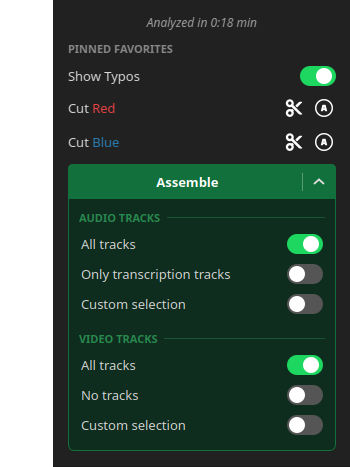
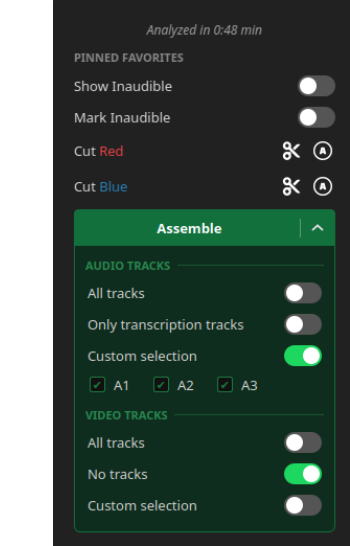
docs: restructure chapter 5 by settings tabs with basic vs advanced view breakdowns

diff --git a/docs/USER_GUIDE.md b/docs/USER_GUIDE.md
@@ -38,13 +38,13 @@
 &nbsp;&nbsp;&nbsp;&nbsp;[4.2 Integrated Audio Player Controls](#42-integrated-audio-player-controls)<br>
 
 **[5. Settings & Preferences](#5-settings-preferences)**<br>
-&nbsp;&nbsp;&nbsp;&nbsp;[5.1 General Settings](#51-general-settings)<br>
-&nbsp;&nbsp;&nbsp;&nbsp;[5.2 Interface & Transcript Formatting](#52-interface-transcript-formatting)<br>
-&nbsp;&nbsp;&nbsp;&nbsp;[5.3 Audio Sync Calibration (Offset, Padding, Snap Max)](#53-audio-sync-calibration-offset-padding-snap-max)<br>
-&nbsp;&nbsp;&nbsp;&nbsp;[5.4 Keyboard & Mouse Shortcut Bindings](#54-keyboard-mouse-shortcut-bindings)<br>
-&nbsp;&nbsp;&nbsp;&nbsp;[5.5 Custom Markers Configuration](#55-custom-markers-configuration)<br>
-&nbsp;&nbsp;&nbsp;&nbsp;[5.6 AI Engine Configuration (Advanced Mode)](#56-ai-engine-configuration-advanced-mode)<br>
-&nbsp;&nbsp;&nbsp;&nbsp;[5.7 Telemetry, Contact & Issue Reporting](#57-telemetry-contact-issue-reporting)<br>
+&nbsp;&nbsp;&nbsp;&nbsp;[5.1 General Tab](#51-general-tab)<br>
+&nbsp;&nbsp;&nbsp;&nbsp;[5.2 Transcript & Interface Tab](#52-transcript-interface-tab)<br>
+&nbsp;&nbsp;&nbsp;&nbsp;[5.3 Shortcuts Tab](#53-shortcuts-tab)<br>
+&nbsp;&nbsp;&nbsp;&nbsp;[5.4 Custom Markers Tab](#54-custom-markers-tab)<br>
+&nbsp;&nbsp;&nbsp;&nbsp;[5.5 AI Engine Tab (Advanced View Only)](#55-ai-engine-tab-advanced-view-only)<br>
+&nbsp;&nbsp;&nbsp;&nbsp;[5.6 Telemetry & Privacy Tab](#56-telemetry-privacy-tab)<br>
+&nbsp;&nbsp;&nbsp;&nbsp;[5.7 Support & Bug Reporting Tab](#57-support-bug-reporting-tab)<br>
 
 **[6. Step-by-Step Practical Recipes ("How do I...?")](#6-step-by-step-practical-recipes-how-do-i)**<br>
 &nbsp;&nbsp;&nbsp;&nbsp;[Recipe A: Cutting Video Based on a Written Script](#recipe-a-cutting-video-based-on-a-written-script)<br>
@@ -393,9 +393,9 @@ The **Main Panel** serves as the primary control center for manual word painting
 <img align="right" src="images/07a_sidebar_tools.png" alt="Sidebar Main Upper" width="285">
 
 #### Upper Section: Marking Palette & Custom Colors
-- **Active Marker Selector:** Radio buttons to switch between **Red**, **Blue**, **Green**, **Eraser**, and custom markers. Shortcut keys `1`, `2`, `3`, `4` select these tools instantly.
-- **Clear Transcript (Brush Icon):** Erases all color markings across the entire project with a confirmation dialog.
-- **`+ add custom marker...`:** Opens the Settings dialog directly to create, configure, and assign shortcuts to custom color markers (see [Section 5.5: Custom Markers Configuration](#55-custom-markers-configuration)).
+- **Active Marker Selector:** Radio buttons to switch between **Red**, **Blue**, **Green**, **Eraser**, and custom markers. You can also use the `1`, `2`, `3`, `4` shortcut keys to select these tools.
+- **Clear Transcript (Brush Icon):** Erases all color markings across the entire transcript with a confirmation dialog.
+- **`+ add custom marker...`:** Opens the Settings dialog directly to create, configure, and assign shortcuts to custom color markers (see [Section 5.4: Custom Markers Tab](#54-custom-markers-tab)).
 
 <br clear="all">
 
@@ -404,15 +404,15 @@ The **Main Panel** serves as the primary control center for manual word painting
 #### Lower Section: Favorites & Timeline Export
 - **Analysis Duration Indicator:** Displays exact stats on transcription processing time (e.g. *Analyzed in: 0.18min*).
 - **Pinned Favorites:** Dynamically reveals any tools or toggles you have starred with the Star `★` button on the *Assembly* Sidebar Panel (such as one-click auto-cut toggles), letting you control them without leaving the Main tab.
-- **`Assemble` Button & Track Options Menu:** Clicking the main **`Assemble`** button triggers the final cut process in DaVinci Resolve. Clicking the arrow (`^`) opens the expandable track configuration menu:
+- **`Assemble` Button:** Clicking it triggers the final cut process in DaVinci Resolve. Clicking the arrow button opens the expandable track configuration menu:
   - **Audio Tracks:**
-    - **`All tracks`:** Includes every audio track from your source timeline in the ripple cut.
-    - **`Only transcription tracks`:** Cuts and includes only the dialogue audio track(s) selected during transcription.
-    - **`Custom selection`:** Lets you manually check or uncheck individual audio tracks (`A1`, `A2`, etc.) to cut.
+    - **`All tracks`:** Includes every audio track from your source timeline (default).
+    - **`Only transcription tracks`:** Includes only the dialogue audio track(s) selected for transcription in the first step.
+    - **`Custom selection`:** Lets you manually choose which audio tracks to use.
   - **Video Tracks:**
-    - **`All tracks`:** Includes every video track (`V1`, `V2`, etc.) from your source timeline in the ripple cut.
-    - **`No tracks`:** Does not modify or cut any video tracks (audio-only ripple cut).
-    - **`Custom selection`:** Lets you manually check or uncheck individual video tracks (`V1`, `V2`, etc.).
+    - **`All tracks`:** Includes every video track from your source timeline (default).
+    - **`No tracks`:** Does not use any video tracks (audio-only assembly).
+    - **`Custom selection`:** Lets you manually choose which video tracks to use.
 
 <br clear="all">
 
@@ -556,27 +556,21 @@ The bottom panel of the editor houses the **Audio Preview Bar**, eliminating gue
 ---
 
 <br>
-<br>
-
----
-
-<br>
-
 ## 5. Settings & Preferences
 
-Clicking the Gear Icon Settings opens the **Settings Dialog**. You can switch between **Basic View** and **Advanced View** at the top.
+Clicking the Gear icon (`⚙`) in the top titlebar or pressing **`Escape`** opens the **Settings Dialog**. 
+
+At the very top of the dialog, you can toggle between two modes:
+- **Basic View (Default):** A clean, streamlined view containing only the essential everyday preferences (language, typography, shortcuts, marker management, and automatic updates).
+- **Advanced View:** Unlocks granular developer and power-user parameters across tabs (including the dedicated **AI Engine** tab, floating window mode, and deep Whisper inference thresholds).
 
 <p align="center">
-  <img src="images/11_settings_dialog.png" alt="Settings Dialog Overview" width="90%">
+  <img src="images/11_settings_dialog.png" alt="Settings Dialog Overview (Basic vs Advanced View)" width="90%">
 </p>
 
 <!-- 
 IMAGE PLACEHOLDER: docs/images/11_settings_dialog.png
-Capture Settings dialog showing:
-[1] Basic / Advanced View Switcher
-[2] Left Category Navigation List
-[3] Setting Row with Input & Reset (Refresh) Button
-[4] Footer Bar: Reset All Settings, Close, Apply
+Overview of Settings dialog comparing Basic View vs Advanced View switcher.
 -->
 
 <br>
@@ -585,13 +579,23 @@ Capture Settings dialog showing:
 
 <br>
 
-### 5.1 General Settings
-- **Interface Language (`Language`):** Switches UI language (English, Polish, German, French, Spanish, Russian, Italian, Japanese, Chinese, etc.).
-- **Accent Color:** Selects the theme accent color (Green, Blue, Purple, Orange, Red, Teal, Pink, Amber).
-- **App Icon:** Chooses the application window icon style.
-- **Always on top:** Keeps BadWords floating above DaVinci Resolve.
-- **Notify me about new versions:** Checks GitHub/GitLab releases on startup.
-- **Auto-update on startup:** Silently downloads and installs patches automatically before opening.
+### 5.1 General Tab
+
+<p align="center">
+  <img src="images/11a_settings_general.png" alt="Settings General Tab" width="90%">
+</p>
+
+#### Basic View:
+- **Updates & Version Card:**
+  - Displays your currently installed version and checks for updates automatically.
+  - **`Update Now` Button:** Appears whenever a new patch or version is released on GitHub/GitLab, allowing you to update in one click without leaving the app.
+  - **`Check for updates on startup` Toggle:** Automatically checks remote repositories for new releases on launch.
+  - **`Auto-update on startup` Toggle:** Automatically downloads and applies updates silently in the background before launching.
+- **Language (`Language`):** Switches the entire BadWords user interface between supported languages (English, Polish, German, French, Spanish, Italian, Japanese, Chinese, etc.).
+- **App Icon Style:** Choose between 4 distinct window icon designs (**Default**, **Monochrome**, **White B**, **White**) to match your system theme.
+- **Settings Backup:**
+  - **`Import Settings`:** Restores your preferences from a saved `.json` file.
+  - **`Export Settings`:** Exports your entire configuration to migrate between computers.
 
 <br>
 
@@ -599,13 +603,32 @@ Capture Settings dialog showing:
 
 <br>
 
-### 5.2 Interface & Transcript Formatting
-- **Transcript Layout Mode:** Choose between **Segmented Blocks** (breaks text into clean sentence chunks with `[00:14]` timestamp headers) and **Continuous Flow** (unbroken paragraph prose).
-- **Transcript Font & Font Size:** Changes typography and font scaling (pt).
-- **Line Spacing (px):** Adjusts vertical padding between lines.
-- **Precise Timestamps (ms):** Displays full millisecond timestamps (e.g. `[01:08.432]`) instead of rounded seconds (`[01:08]`).
-- **Punctuation marks per block (`chunk_punct_count`):** Number of sentences grouped into a single transcript block.
-- **Max chunk words / Lookahead words:** Controls maximum line length and punctuation-aware word wrapping.
+### 5.2 Transcript & Interface Tab
+
+<p align="center">
+  <img src="images/11b_settings_transcript.png" alt="Settings Transcript Tab" width="90%">
+</p>
+
+#### Basic View:
+- **Display Mode:**
+  - **`Segmented Blocks`:** Groups sentences into structured dialogue blocks with timestamp headers `[00:14]` for easy skimming.
+  - **`Continuous Flow`:** Displays transcription as continuous running prose.
+- **Transcript Typography:**
+  - **Font Family:** Select any font installed on your operating system.
+  - **Font Size (pt):** Adjust text scale (8pt to 48pt).
+  - **Line Spacing (px):** Adjust vertical padding between lines of text.
+  - **Live Preview Box:** Instantly previews typography, colors, and line height adjustments before applying.
+- **DaVinci Resolve Synchronization:**
+  - **`Sync playhead with DaVinci Resolve chapters` Toggle:** Keeps playhead position synchronized between Resolve and BadWords.
+  - **`Preserve XML track order` Toggle:** Guarantees strict timeline track order preservation during XML import/export.
+  - **`Precise Timestamps` Toggle:** Switches timestamps from rounded seconds (`[01:08]`) to full millisecond precision (`[01:08.432]`).
+
+#### Advanced View Additions:
+- **`Always on Top` Toggle:** Forces BadWords to float permanently above DaVinci Resolve and other windows.
+- **Chunk Segmentation Parameters (for Segmented Mode):**
+  - **Max Chunk Words (default `30`):** Maximum number of words in a sentence block before forcing a break.
+  - **Chunk Lookahead (default `3`):** Number of words the engine looks ahead to find natural punctuation points (`.`, `?`, `!`) before breaking a line.
+  - **Min Chunk Characters (default `7`):** Minimum character count threshold before a new chunk is permitted.
 
 <br>
 
@@ -613,31 +636,22 @@ Capture Settings dialog showing:
 
 <br>
 
-### 5.3 Audio Sync Calibration (Offset, Padding, Snap Max)
+### 5.3 Shortcuts Tab
 
-Fine-tune these parameters if you need razor-sharp acoustic synchronization:
+<p align="center">
+  <img src="images/11c_settings_shortcuts.png" alt="Settings Shortcuts Tab" width="90%">
+</p>
 
-| Parameter | Default Value | Description |
-| :--- | :---: | :--- |
-| **Offset (s)** | `0.133s` | Shifts all transcript timestamps backward or forward. Negative values start cuts slightly earlier; positive values delay them. |
-| **Padding (s)** | `0.000s` | Adds extra duration to the tail of each spoken word, ensuring trailing consonants are never clipped. |
-| **Snap Max (s)** | `0.250s` | Maximum silence gap between two adjacent words to merge them into a single uninterrupted audio clip. |
-
-<br>
-
----
-
-<br>
-
-### 5.4 Keyboard & Mouse Shortcut Bindings
-Configure custom keys for every action:
-- Switch to Red / Blue / Green Marker
-- Switch to Eraser
-- Jump to Word (`Ctrl` / `Alt` / `Shift` + Left / Right Mouse Button)
-- Play / Pause (`Space`)
-- Skip Backward / Forward (`Left` / `Right`)
-- Search (`Ctrl + F`)
-- Open Settings (`Escape`)
+#### Basic & Advanced View:
+- **Conflict Detection:** Key capture buttons automatically detect duplicate hotkeys across tools, turning the border **Red** if two actions share the same shortcut.
+- **Color Marker Keys:** Assign custom keybindings to **Red (`1`)**, **Blue (`2`)**, **Green (`3`)**, **Eraser (`4`)**, and any custom markers you create.
+- **Navigation & Editing Controls:**
+  - **Jump to Word:** Configure mouse click combination (`Ctrl + Left Click`, `Alt + Left Click`, `Shift + Left Click`, or Right Click variants).
+  - **Play / Pause:** Default `Space`.
+  - **Skip Backward / Forward:** Default `Left Arrow` / `Right Arrow` (2-second jumps).
+  - **Search Overlay:** Default `Ctrl + F`.
+  - **Open Settings:** Default `Escape`.
+- **Reset Buttons (`↺` & `✕`):** Clear a binding or revert individual shortcuts to default.
 
 <br>
 
@@ -645,13 +659,19 @@ Configure custom keys for every action:
 
 <br>
 
-### 5.5 Custom Markers Configuration
-Create bespoke markers for your personal workflow:
-1. Click **`+ Add Marker`**.
-2. Enter a marker name (e.g., *"B-Roll Insert"* or *"Sound Effect"*).
-3. Assign any unused DaVinci Resolve color.
-4. Assign a keyboard shortcut key.
-5. Export or import your marker configurations across different editing workstations.
+### 5.4 Custom Markers Tab
+
+<p align="center">
+  <img src="images/11d_settings_markers.png" alt="Settings Custom Markers Tab" width="90%">
+</p>
+
+#### Basic & Advanced View:
+- **Custom Marker List:** Drag-and-drop handles allow you to freely reorder marker priority and display sequence in the editor palette.
+- **`+ Add Marker`:** Define custom marker tags with:
+  1. Custom Name (e.g. *"B-Roll"*, *"Zoom In"*, *"Sound Effect"*).
+  2. DaVinci Resolve Clip Color (choose from unused Resolve palette colors).
+  3. Keyboard shortcut key.
+- **`Export Markers` / `Import Markers`:** Save your custom color system as a portable preset file to share with other team members.
 
 <br>
 
@@ -659,19 +679,30 @@ Create bespoke markers for your personal workflow:
 
 <br>
 
-### 5.6 AI Engine Configuration (Advanced Mode)
+### 5.5 AI Engine Tab (Advanced View Only)
 
-For power users who wish to customize the Faster-Whisper transcription engine:
+<p align="center">
+  <img src="images/11e_settings_ai_engine.png" alt="Settings AI Engine Tab" width="90%">
+</p>
 
-| Setting | Default | Description |
-| :--- | :---: | :--- |
-| **Device** | `Auto` | Selects processing device (`Auto`, `CUDA` for NVIDIA GPUs, or `CPU`). |
-| **Compute Type** | `int8` / `Auto` | Quantization precision (`int8`, `float16`, `bfloat16`, `float32`). |
-| **VAD Filter** | `False` | Silero Voice Activity Detection pre-filter. |
-| **Beam Size** | `1` | Greedy decoding (`1`) forces raw acoustic capture without grammatical smoothing. |
-| **Temperature** | `0.0` | Sampling temperature. `0.0` ensures deterministic, hallucination-free output. |
-| **Condition on Previous Text** | `False` | Disables previous context chaining to eliminate infinite repetition loops. |
-| **Initial Prompt** | *Golden Verbatim* | Custom acoustic prompt guiding the AI to capture stutters and filler phonemes. |
+> [!NOTE]  
+> The **AI Engine Tab** is unlocked exclusively in **Advanced View** for users who want complete control over neural network inference and Faster-Whisper decoding behavior.
+
+#### Hardware & Precision:
+- **Device (`Auto`, `GPU`, `CPU`):** Selects whether AI transcription executes on dedicated GPU hardware or system CPU.
+- **Compute Type (`Auto`, `float16`, `int8`, `float32`, `int8_float16`, `int8_float32`):** Selects neural quantization precision. `float16` is fastest on modern GPUs; `int8` saves VRAM and runs efficiently on CPU.
+
+#### Acoustic Guidance:
+- **Initial Prompt:** Custom text prompt fed directly into Whisper before transcription. Pre-loaded with BadWords' *Golden Verbatim* prompt tailored to each language to prevent AI hallucination and ensure accurate capture of filler phonemes and stutters.
+
+#### Deep Inference Thresholds:
+- **VAD Filter (Voice Activity Detection):** Pre-filters non-speech audio using Silero VAD before feeding chunks to Whisper.
+- **Condition on Previous Text (default `False`):** When disabled, prevents Whisper from entering infinite repetition loops on acoustic noise.
+- **Beam Size (default `1`):** Beam search width. `1` provides fastest greedy decoding.
+- **Temperature (default `0.0`):** Randomness sampling. `0.0` ensures 100% deterministic transcription.
+- **Logprob Threshold (default `-0.8`):** Confidence floor for acoustic tokens.
+- **No Speech Threshold (default `0.7`):** Probability boundary to classify segment as silence.
+- **Patience, Compression Ratio, No-repeat N-gram, Length & Repetition Penalties:** Precision tuning for edge-case speech models.
 
 <br>
 
@@ -679,9 +710,43 @@ For power users who wish to customize the Faster-Whisper transcription engine:
 
 <br>
 
-### 5.7 Telemetry, Contact & Issue Reporting
-- **Anonymous Telemetry:** 100% anonymous ping containing OS type and version number only (no audio or personal data is ever collected).
-- **Direct Support Form:** Enter an issue title and description, attach screenshots, and send a diagnostic ticket with log files directly to the developer with one click.
+### 5.6 Telemetry & Privacy Tab
+
+<p align="center">
+  <img src="images/11f_settings_telemetry.png" alt="Settings Telemetry Tab" width="90%">
+</p>
+
+#### Basic & Advanced View:
+- **`Anonymous Telemetry` Toggle:** 100% anonymous ping containing only your OS type and BadWords version number (used solely to gauge active platform usage). **No audio, speech, transcripts, or personal data are ever collected.**
+- **`Include Geographic Region` Toggle:** Sends country-level region for translation prioritization.
+- **Community Links:** Direct buttons to support BadWords on *Buy Me a Coffee* or visit the official *GitHub repository*.
+
+<br>
+
+---
+
+<br>
+
+### 5.7 Support & Bug Reporting Tab
+
+<p align="center">
+  <img src="images/11g_settings_support.png" alt="Settings Support Tab" width="90%">
+</p>
+
+#### Basic & Advanced View:
+- **Logs Location & One-Click Copy:** Displays the absolute path to your `badwords_debug.log` file with a copy button for easy troubleshooting.
+- **Direct Support Ticket Form:**
+  - Enter a problem title and detailed description.
+  - Automatically bundles system diagnostics and error logs.
+  - Click **`Send Report`** to transmit the diagnostic ticket directly to the developer with zero manual email hassle.
+
+<br>
+
+---
+
+<br>
+
+
 
 <br>
 
